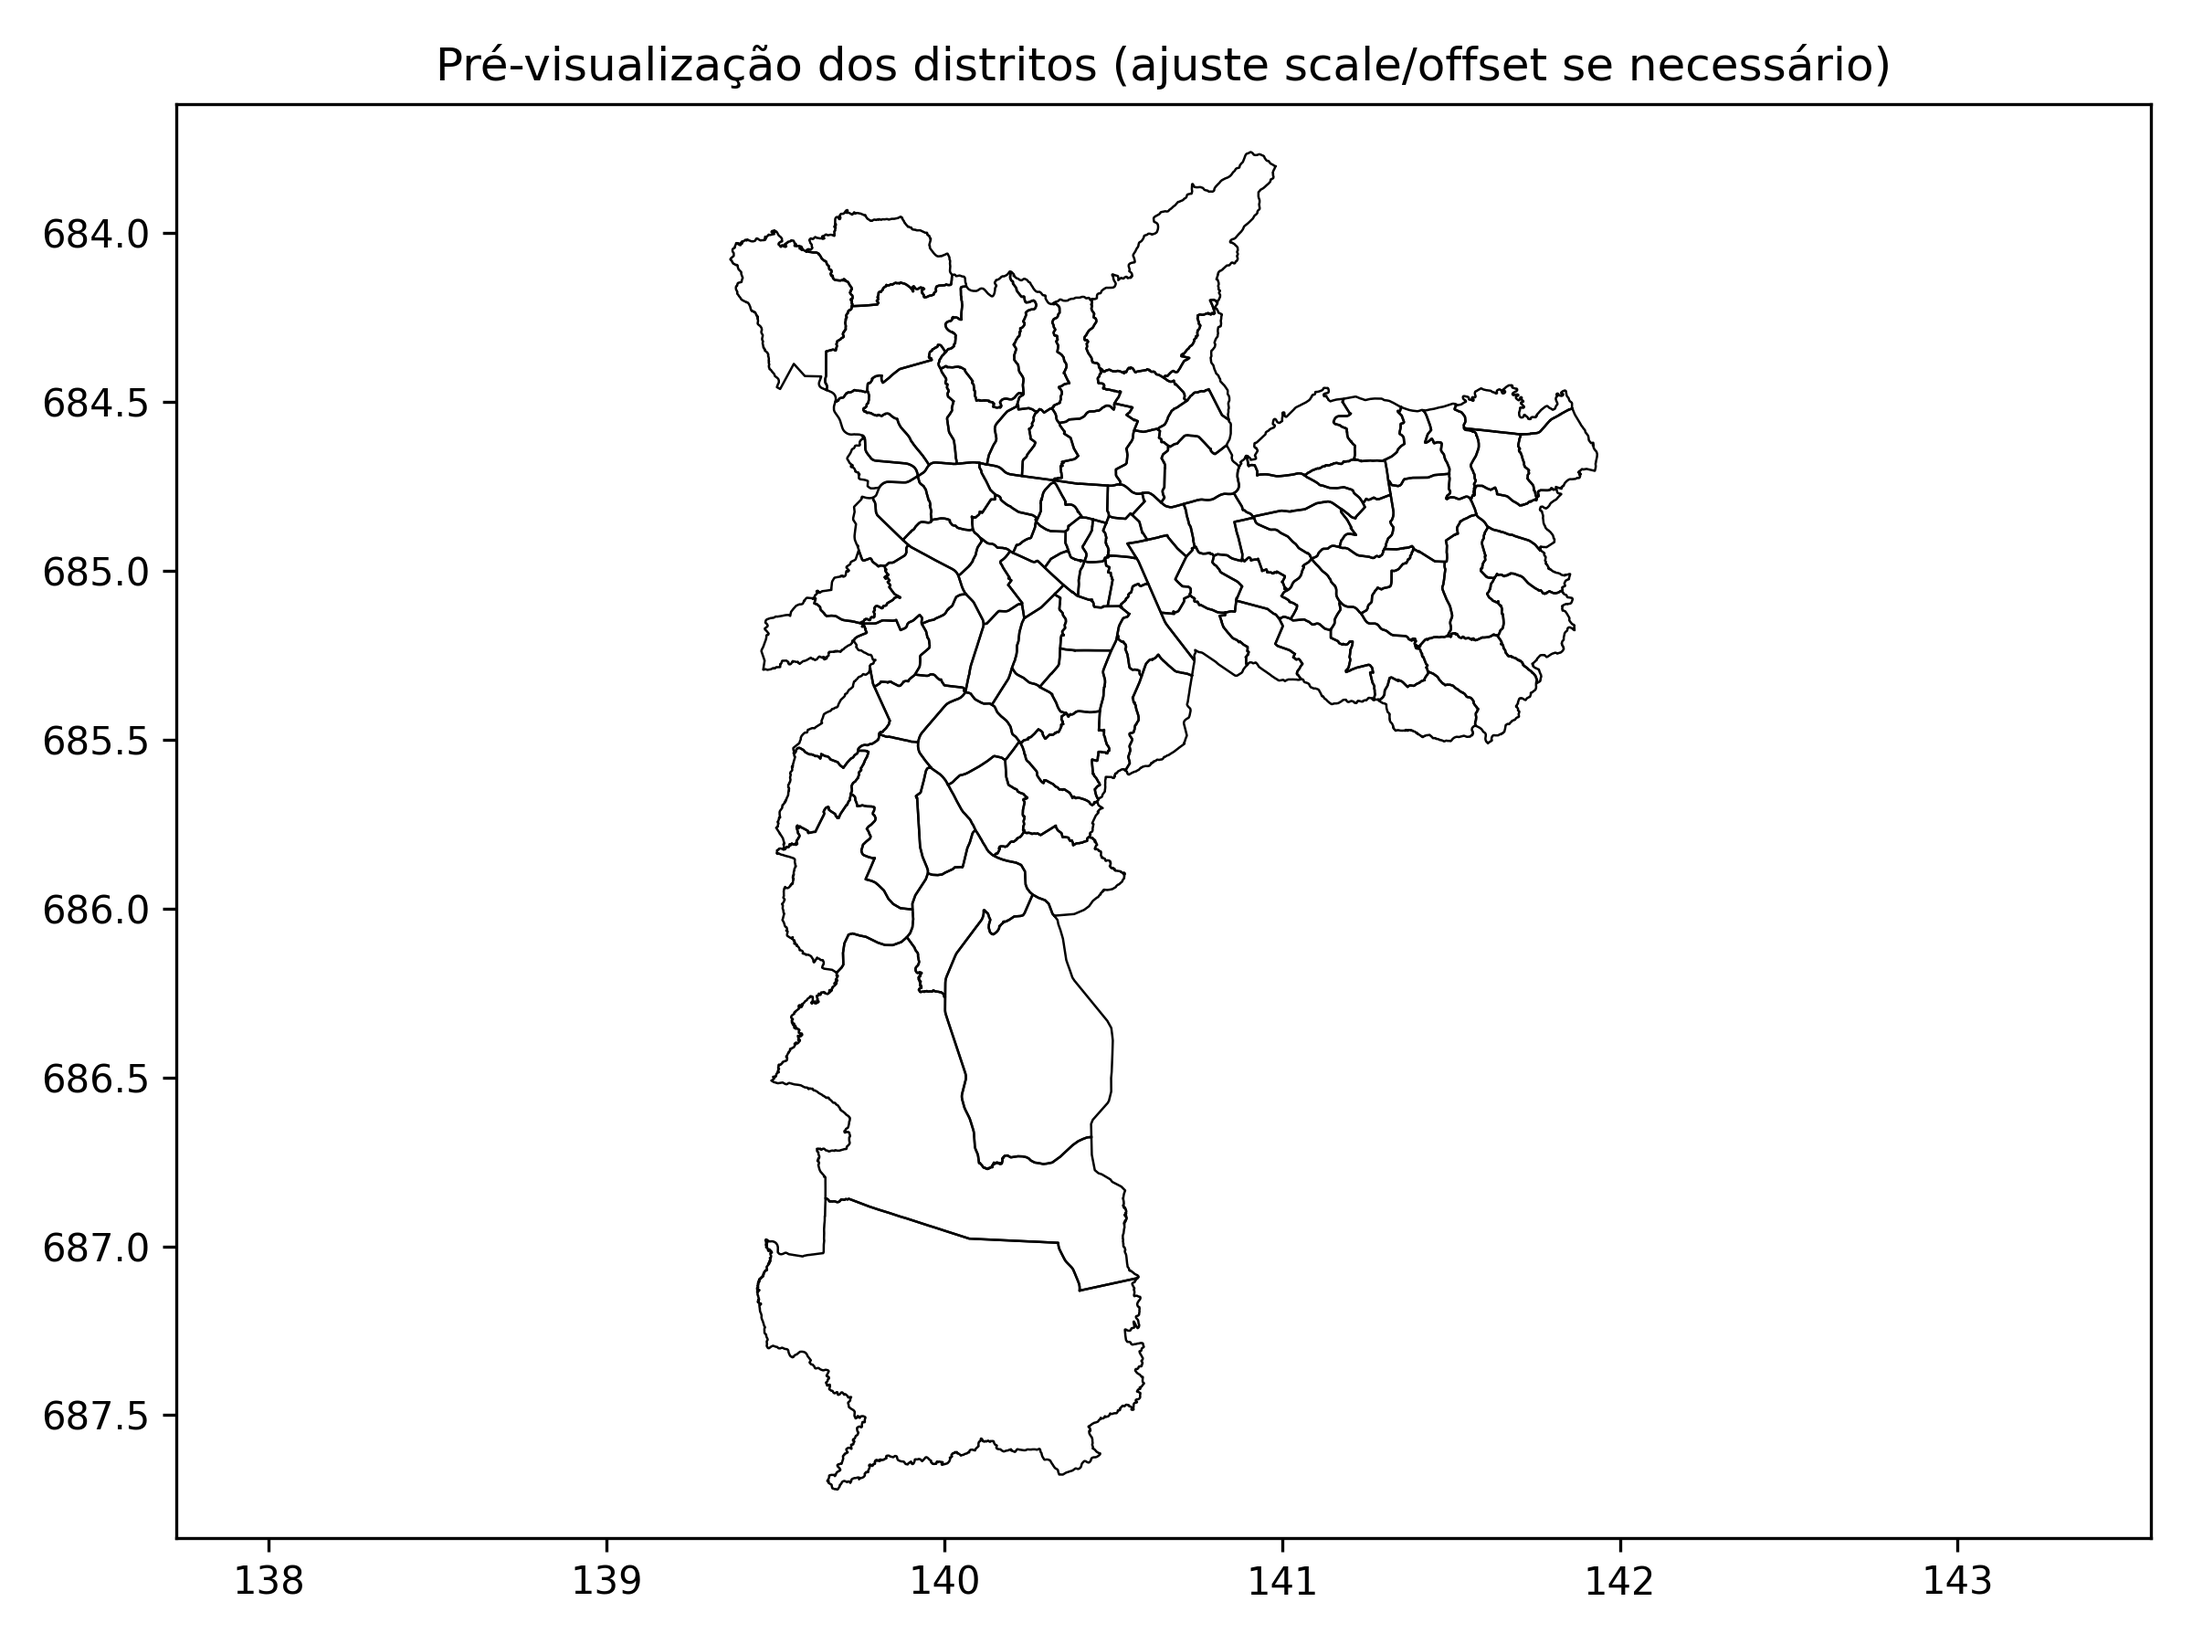
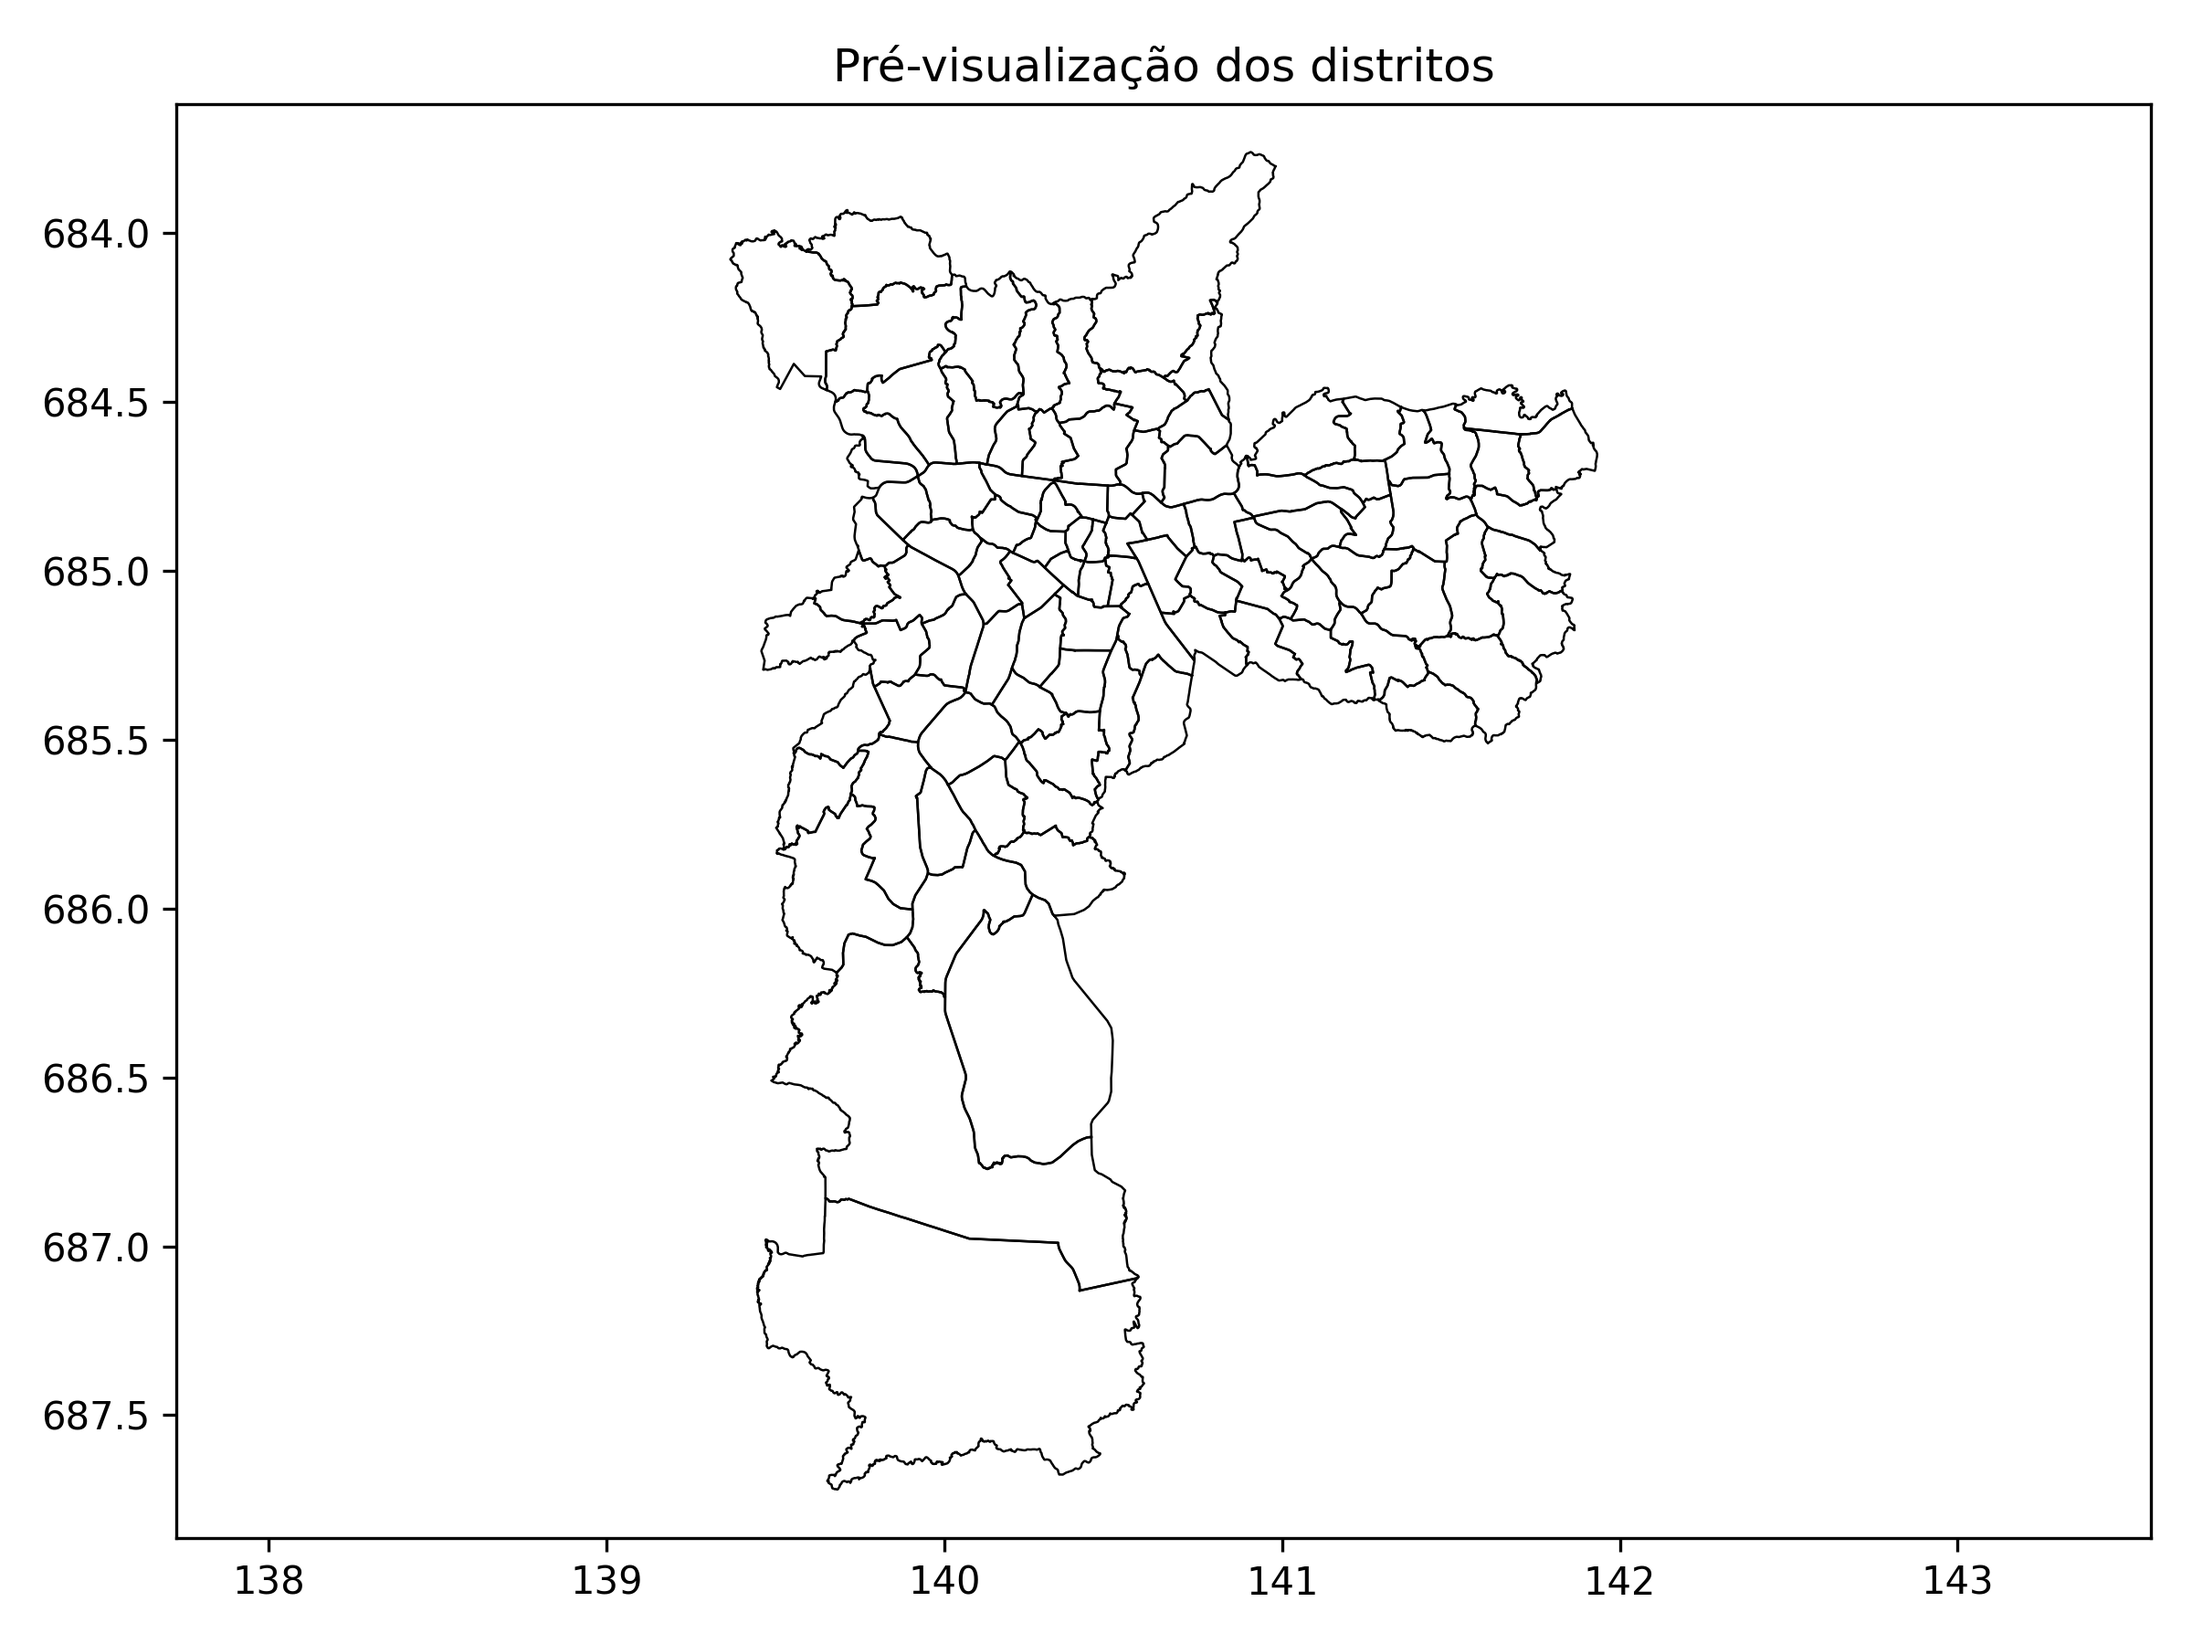
modified:   environments/GEO/transform/get_SP.py modified:   images/mapa_distritos.png

Changed region(s): [[0.1875, 0.0311, 0.875, 0.0622]]

diff --git a/environments/GEO/transform/get_SP.py b/environments/GEO/transform/get_SP.py
@@ -68,7 +68,7 @@ plt.figure(figsize=(8, 6))
 for d in distritos_py:
     xs, ys = zip(*d["poligono"])
     plt.plot(xs, ys, color="black", linewidth=0.6)
-plt.title("Pré-visualização dos distritos (ajuste scale/offset se necessário)")
+plt.title("Pré-visualização dos distritos")
 plt.gca().invert_yaxis()
 plt.axis("equal")
 plt.tight_layout()
